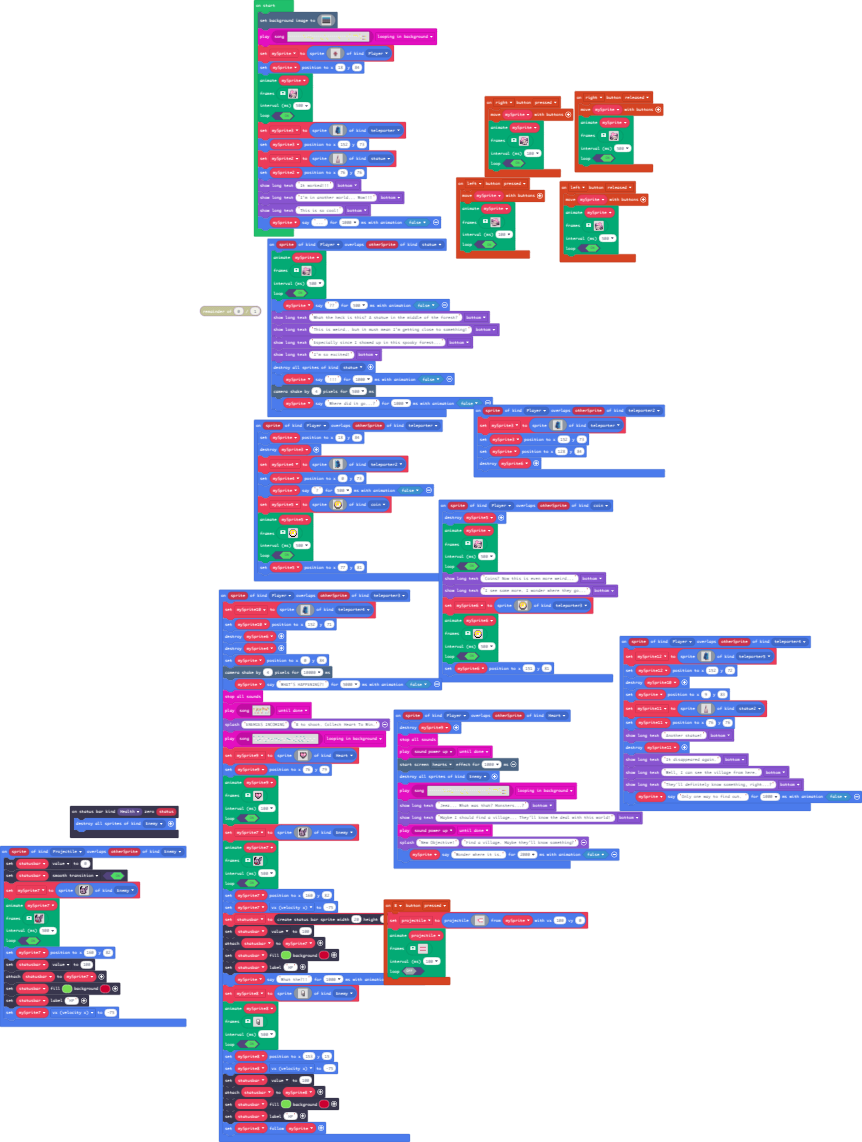
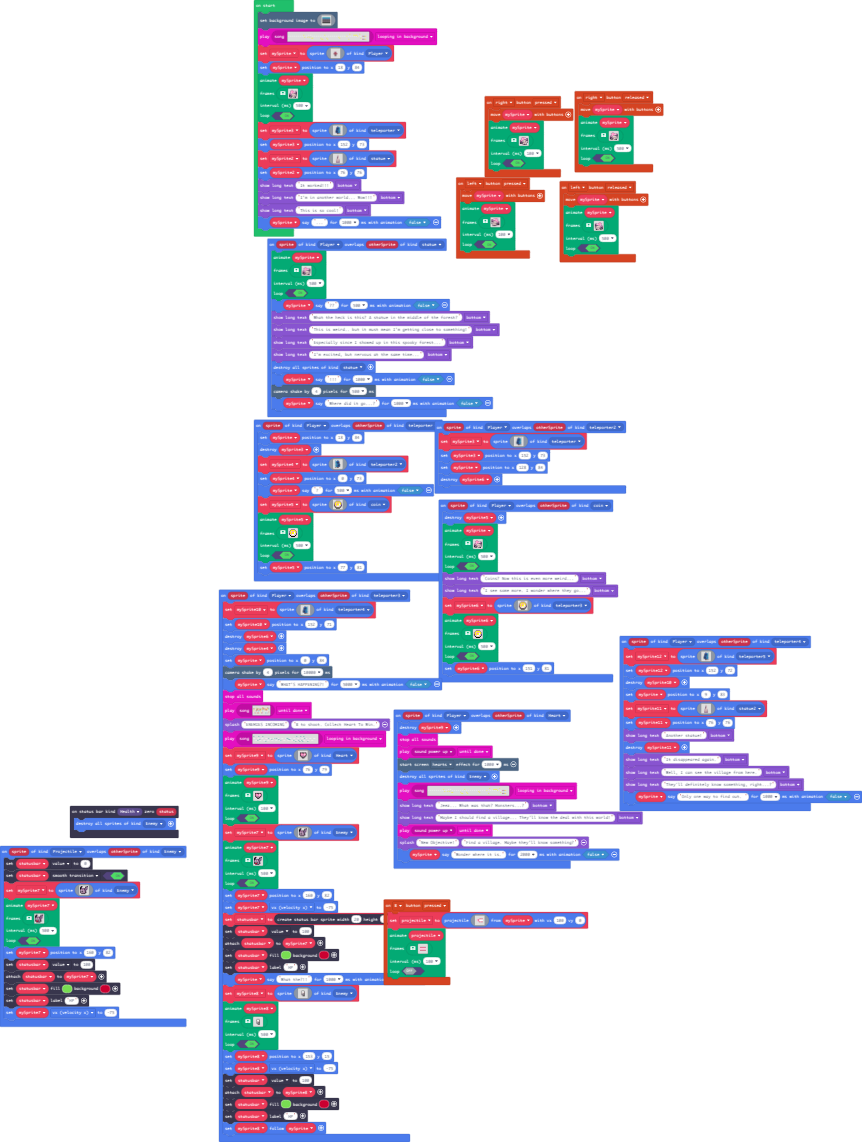
text block change

Changed region(s): [[0.4826, 0.3371, 0.7842, 0.4597], [0.3921, 0.3065, 0.5429, 0.3371], [0.2413, 0.2452, 0.3016, 0.2758]]

diff --git a/main.ts b/main.ts
@@ -1005,7 +1005,7 @@ sprites.onOverlap(SpriteKind.Player, SpriteKind.statue, function (sprite, otherS
     game.showLongText("What the heck is this? A statue in the middle of the forest?", DialogLayout.Bottom)
     game.showLongText("This is weird.. but it must mean I'm getting close to something!", DialogLayout.Bottom)
     game.showLongText("Especially since I showed up in this spooky forest...", DialogLayout.Bottom)
-    game.showLongText("I'm so excited!", DialogLayout.Bottom)
+    game.showLongText("I'm excited, but nervous at the same time...", DialogLayout.Bottom)
     sprites.destroyAllSpritesOfKind(SpriteKind.statue)
     mySprite.sayText("!!!", 1000, false)
     scene.cameraShake(4, 500)
